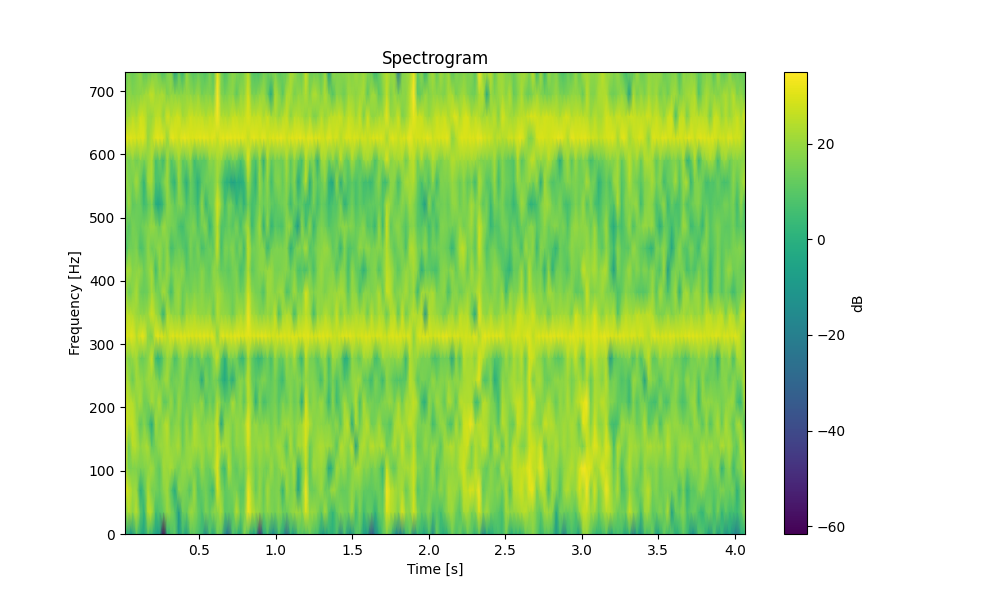
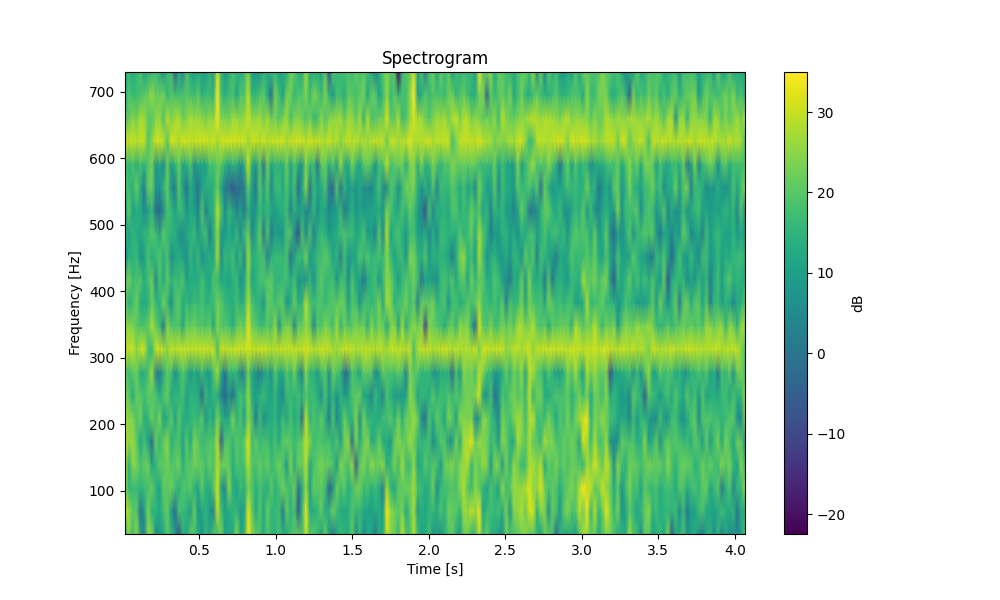
literally 1984

diff --git a/cereal.py b/cereal.py
@@ -1,6 +1,84 @@
 import serial
 import time
 import datetime
+from scipy.fft import fft
+from scipy.signal import spectrogram
+import numpy as np
+import matplotlib.pyplot as plt
+
+second = 8900
+
+def plot_spectrogram(data, sampling_rate):
+    data = np.array(data)
+    print(len(data))
+    # Compute the spectrogram
+    f, t, Sxx = spectrogram(data, fs=sampling_rate)
+    
+    low_pass_threshold_hz = 800
+    low_pass_threshold = low_pass_threshold_hz // 35
+    f, Sxx = f[1:low_pass_threshold], Sxx[1:low_pass_threshold]
+
+    return Sxx
+
+def plot_cumulative_amplitude(Sxx):
+    # Calculate the cumulative amplitude by summing across frequencies
+    cumulative_amplitude = np.sum(Sxx, axis=0)
+    binary = np.where(cumulative_amplitude > 7000, cumulative_amplitude, 0)
+
+        # Plot the cumulative amplitude
+    # plt.figure(figsize=(10, 6))
+    # plt.plot(cumulative_amplitude)
+    # plt.title('Cumulative Amplitude Over Time')
+    # plt.xlabel('Time [s]')
+    # plt.ylabel('Cumulative Amplitude')
+    # plt.grid(True)
+    # plt.savefig(f"cumulative_amplitude_thing.png")
+
+
+    return binary
+
+def find_clustered_ones(binary_array):
+    # Find the difference between consecutive elements
+    diff = np.diff(binary_array)
+    
+    # Identify where there is a transition from 0 to 1 (start of a cluster)
+    clustered_indices = np.where(diff == 1)[0] + 1  # Add 1 to get the actual index after np.diff
+    # If the array starts with 1, include the first index (0)
+    if binary_array[0] == 1:
+        clustered_indices = np.insert(clustered_indices, 0, 0)
+    
+    print(clustered_indices)
+    return [(e,binary_array[e]) for e in clustered_indices]
+    #return clustered_indices
+
+def morse_like_encoding(indices, dash_threshold=4400, new_char_threshold=8900*2):
+    morse_code = []
+    current_char = []
+
+    for i in range(len(indices) - 1):
+        # Get the difference between current and next index
+        diff = indices[i + 1] - indices[i]
+
+        # Check if the difference falls within the dash threshold
+        if diff <= dash_threshold:
+            if not current_char or current_char[-1] != '-':
+                current_char.append('-')  # Add a dash if previous symbol was not a dash
+                i+=1
+        else:
+            if not current_char or current_char[-1] != '.':
+                current_char.append('.')  # Add a dot if previous symbol was not a dot
+        
+        # Check if the difference exceeds the new character threshold
+        if diff > new_char_threshold:
+            morse_code.append(''.join(current_char))  # Append current character to morse code
+            current_char = []  # Start a new character
+
+    # Append the final character to the morse code if there's anything left
+    if current_char:
+        morse_code.append(''.join(current_char))
+
+    return morse_code
+
 
 # Configure the serial port
 ser = serial.Serial('/dev/cu.usbserial-0001', 500000, timeout=1)  # Added timeout
@@ -8,17 +86,34 @@ ser.reset_input_buffer()  # Clear any existing buffer
 
 # Open a file to write the data
 filename = f"serial_data_{datetime.datetime.now().strftime('%Y%m%d_%H%M%S')}.txt"
+data_list = []
+
 with open(filename, 'wb') as file:  # Changed to binary mode
     start_time = time.time()
     
-    while time.time() - start_time < 6:  # Run for 10 seconds
+    counter = 0
+    #while time.time() - start_time < 6:  # Run for 10 seconds
+    while True:
         # Read all available bytes
         data = ser.read(ser.in_waiting or 1)
         
         if data:
             #timestamp = datetime.datetime.now().strftime('%Y-%m-%d %H:%M:%S.%f')[:-3].encode()
-            file.write(data + b"\n")
+            #file.write(data + b"\n")
             #print(f"{timestamp.decode()}: {data}")  # Optional: print to console
+            for i in data.decode("utf-8").split("\n"):
+                if i.strip():
+                    data_list.append(int(i.strip()))
+                    counter+=1
+                    if len(data_list) > 89000 == 0:
+                        del data_list[0]
+        
+        if counter > 8900:
+            counter = 0
+            morse_ouput = morse_like_encoding(find_clustered_ones(plot_cumulative_amplitude(plot_spectrogram(data_list, 8900))),
+                                dash_threshold=8900/2,new_char_threshold=8900*2)
+            print(morse_ouput)
+
 
     ser.close()
 

diff --git a/beeeeeeep.py b/beeeeeeep.py
@@ -3,7 +3,7 @@ import matplotlib.pyplot as plt
 from scipy.fft import fft
 from scipy.signal import spectrogram
 
-output_name = "C"
+output_name = "Ctalk"
 
 def read_data(filename):
     data = []
@@ -22,7 +22,7 @@ def plot_spectrogram(data, sampling_rate):
     
     low_pass_threshold_hz = 800
     low_pass_threshold = low_pass_threshold_hz // 35
-    f, Sxx = f[:low_pass_threshold], Sxx[:low_pass_threshold]
+    f, Sxx = f[1:low_pass_threshold], Sxx[1:low_pass_threshold]
 
     # breakpoint()
 
